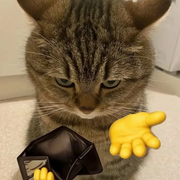
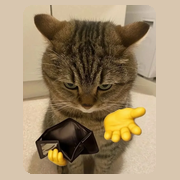
Котик целиком: иконки без обрезки под маски, вертикальная картинка в шапке
Claude-Session: https://claude.ai/code/session_01918Wm567929GVEL5qe7VWj

diff --git a/index.html b/index.html
@@ -48,7 +48,7 @@ h2{font-size:.95rem;font-weight:500}
 .muted{color:var(--muted)}
 .label{font-size:.72rem;text-transform:uppercase;letter-spacing:.08em;color:var(--muted);font-weight:600}
 .brand{display:flex;align-items:center;gap:12px;min-width:0}
-.cat{width:56px;height:56px;border-radius:14px;object-fit:cover;flex:none;box-shadow:0 0 0 1px var(--line)}
+.cat{width:48px;height:61px;border-radius:10px;object-fit:contain;flex:none;box-shadow:0 0 0 1px var(--line)}
 header{display:flex;flex-wrap:wrap;align-items:center;justify-content:space-between;gap:12px}
 .month{display:flex;align-items:center;gap:6px}
 .month span{min-width:9.5em;text-align:center;font-weight:600;text-transform:capitalize}
@@ -150,7 +150,7 @@ details.mt summary:focus-visible{outline:2px solid var(--accent);outline-offset:
 <div class="wrap">
   <header>
     <div class="brand">
-      <img class="cat" src="cat.jpg" alt="Котик с пустым кошельком" width="56" height="56">
+      <img class="cat" src="cat.jpg" alt="Котик с пустым кошельком" width="48" height="61">
       <div style="display:flex;flex-direction:column;gap:4px;min-width:0">
       <h1>Где деньги?</h1>
       <span class="mode" id="mode">Данные хранятся на этом телефоне</span>

diff --git a/sw.js b/sw.js
@@ -1,5 +1,5 @@
 // Где деньги?: офлайн-кэш. При изменении файлов увеличьте номер версии.
-const CACHE = "kopilka-v3";
+const CACHE = "kopilka-v4";
 const CORE = ["./", "index.html", "manifest.webmanifest", "xlsx.full.min.js",
   "icon-192.png", "icon-512.png", "apple-touch-icon.png", "cat.jpg"];
 
